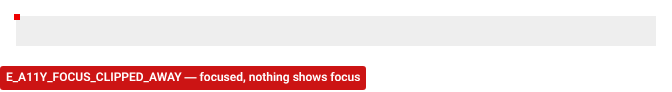
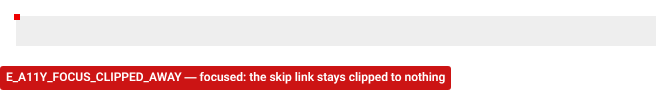
docs: counterexample gallery covers 46 patterns
Ten more cases: hover-only controls, text cut off under the WCAG text spacing,
small text, pointer-events: none over a visible button, a focusable button in
aria-hidden, focus escaping an open modal, padding beyond a fixed size, a row
wider than the page, text spilling into its neighbour, nested scroll areas.
Focus pictures carry a per-case caption.

Claude-Session: https://claude.ai/code/session_01JroQ9fSM85oYnk9PfR2xPa

Changed region(s): [[0.3438, 0.7174, 0.6875, 0.9783]]

diff --git a/docs/counterexamples/README.md b/docs/counterexamples/README.md
@@ -702,6 +702,206 @@ body{padding:0}.page{display:grid;grid-template-columns:minmax(0,1fr);background
 
 </details>
 
+## A control that only hover reveals
+
+`E_A11Y_HOVER_ONLY` — viewport 672 × 690px
+
+> .b appears on :hover but stays hidden when focused, so keyboard users cannot see it
+
+![hover-only](hover-only-violation.png)
+
+<details><summary>HTML / CSS</summary>
+
+```html
+<main class="page"><div class="row"><div class="item"></div><button class="b" aria-label="Delete"></button></div></main>
+```
+
+```css
+.page{display:grid;grid-template-columns:240px;background:#fff}.row{display:grid;grid-template-columns:minmax(0,1fr) 44px;height:44px;background:#eee}.b{appearance:none;display:block;padding:0;border:0;min-width:0;min-height:0;opacity:0;background:#c33}.b:hover{opacity:1}
+```
+
+</details>
+
+## Text cut off at 1.5 line-height (user text spacing)
+
+`E_A11Y_TEXT_SPACING` — viewport 672 × 690px
+
+> .t clips its text with letter-spacing 0.12em and word-spacing 0.16em (needs 197.4375px)
+
+![text-spacing](text-spacing-before.png) ![text-spacing](text-spacing-after.png)
+
+<details><summary>HTML / CSS</summary>
+
+```html
+<main class="page"><p class="t">Order status: shipped</p></main>
+```
+
+```css
+.page{display:grid;grid-template-columns:190px;grid-template-rows:20px;background:#fff;color:#000}.t{font-family:Roboto;font-size:16px;line-height:20px;white-space:nowrap;overflow:hidden;background:#eef}
+```
+
+</details>
+
+## Text below 12px on narrow screens
+
+`W_A11Y_SMALL_TEXT` — viewport 672 × 690px
+
+> .t is set at 10px
+
+![small-text](small-text-violation.png)
+
+<details><summary>HTML / CSS</summary>
+
+```html
+<main class="page"><p class="t">Terms and conditions apply</p></main>
+```
+
+```css
+.page{display:grid;grid-template-columns:minmax(0,1fr);background:#fff;color:#000}.t{font-family:Roboto;font-size:10px;line-height:14px;white-space:nowrap}
+```
+
+</details>
+
+## A visible button under pointer-events: none
+
+`E_A11Y_POINTER_DISABLED` — viewport 672 × 690px
+
+> .go cannot be clicked: pointer-events is none here
+
+![pointer-disabled](pointer-disabled-violation.png)
+
+<details><summary>HTML / CSS</summary>
+
+```html
+<main class="page"><div class="panel"><button class="go" aria-label="Continue"></button></div></main>
+```
+
+```css
+.page{display:grid;grid-template-columns:160px;background:#fff}.panel{display:grid;grid-template-columns:minmax(0,1fr);pointer-events:none}.go{appearance:none;display:block;padding:0;border:0;min-width:0;min-height:0;height:44px;background:#246}
+```
+
+</details>
+
+## A focusable button inside aria-hidden
+
+`E_A11Y_HIDDEN_FOCUSABLE` — viewport 672 × 690px
+
+> .b can take focus inside aria-hidden content
+
+![hidden-focusable](hidden-focusable-violation.png)
+
+<details><summary>HTML / CSS</summary>
+
+```html
+<main class="page"><div class="bar" aria-hidden="true"><button class="b" aria-label="Share"></button></div></main>
+```
+
+```css
+.page{display:grid;grid-template-columns:120px;padding:4px;background:#fff}.bar{display:grid;grid-template-columns:minmax(0,1fr)}.b{appearance:none;display:block;padding:0;border:0;min-width:0;min-height:0;height:44px;background:#246}.b:focus{outline:3px solid #1a73e8}
+```
+
+</details>
+
+## Focus can leave an open modal dialog
+
+`W_A11Y_MODAL_BACKGROUND` — viewport 672 × 690px
+
+> .o can take focus outside the modal .d; make the background inert (or aria-hidden and unfocusable)
+
+![modal-background](modal-background-violation.png)
+
+<details><summary>HTML / CSS</summary>
+
+```html
+<main class="page"><div class="bg"><button class="o" aria-label="Background action"></button></div><div class="d" role="dialog" aria-modal="true" aria-label="Confirm"><button class="i" aria-label="OK"></button></div></main>
+```
+
+```css
+.page{position:relative;display:grid;grid-template-columns:240px;grid-template-rows:44px;background:#fff}.bg{display:grid;grid-template-columns:minmax(0,1fr)}.o{appearance:none;display:block;padding:0;border:0;min-width:0;min-height:0;height:44px;background:#999}.o:focus{outline:3px solid #1a73e8}.d{position:absolute;left:40px;top:60px;width:160px;height:80px;display:grid;grid-template-columns:minmax(0,1fr);padding:18px;background:#fff;box-shadow:0 4px 16px rgba(0,0,0,.3)}.i{appearance:none;display:block;padding:0;border:0;min-width:0;min-height:0;height:44px;background:#246}
+```
+
+</details>
+
+## Padding larger than the fixed size
+
+`E_LAYOUT_BOX_EDGES` — viewport 672 × 690px
+
+> .pill requires 32px but receives 24px on block axis at viewport 672px × 690px
+
+![box-edges](box-edges-violation.png)
+
+<details><summary>HTML / CSS</summary>
+
+```html
+<main class="page"><div class="pill"></div></main>
+```
+
+```css
+.page{display:grid;grid-template-columns:200px}.pill{height:24px;padding:16px 0;background:#9cf}
+```
+
+</details>
+
+## A rigid row wider than the page
+
+`E_LAYOUT_PAGE_OVERFLOW` — viewport 422 × 690px
+
+> .b reaches past the viewport, so the page scrolls horizontally
+
+![page-overflow-x](page-overflow-x-violation.png)
+
+<details><summary>HTML / CSS</summary>
+
+```html
+<main class="page"><div class="row"><div class="a"></div><div class="b"></div></div></main>
+```
+
+```css
+.page{display:grid;grid-template-columns:minmax(0,1fr)}.row{display:flex;column-gap:8px}.a{flex:none;width:300px;height:60px;background:#9cf}.b{flex:none;width:200px;height:60px;background:#fc9}
+```
+
+</details>
+
+## Text that spills into its neighbour
+
+`E_LAYOUT_TEXT_COLLISION` — viewport 429 × 690px
+
+> .t.a and .t.b overlap
+
+![text-collision](text-collision-violation.png)
+
+<details><summary>HTML / CSS</summary>
+
+```html
+<main class="page"><div class="row"><p class="t a">A long product name that overflows</p><p class="t b">19.99 USD</p></div></main>
+```
+
+```css
+.page{display:grid;grid-template-columns:minmax(0,1fr)}.row{display:grid;grid-template-columns:minmax(0,1fr) minmax(0,1fr)}.t{font-family:Roboto;font-size:16px;line-height:24px;white-space:nowrap}.b{background:rgba(255,200,120,.5)}
+```
+
+</details>
+
+## A scroll area inside a scroll area
+
+`W_LAYOUT_NESTED_SCROLL` — viewport 484 × 690px
+
+> .inner scrolls inside .outer
+
+![nested-scroll](nested-scroll-violation.png)
+
+<details><summary>HTML / CSS</summary>
+
+```html
+<main class="page"><div class="outer"><div class="inner"><div class="content"></div></div></div></main>
+```
+
+```css
+.page{display:grid;grid-template-columns:minmax(0,1fr)}.outer{display:grid;grid-template-columns:600px;overflow:auto;height:140px;background:#eee;padding:8px}.inner{display:grid;grid-template-columns:900px;overflow:auto;background:#cde}.content{min-width:0;height:100px;background:repeating-linear-gradient(90deg,#9cf 0 40px,#cde 40px 80px)}
+```
+
+</details>
+
 ## A badge that sticks out of its card
 
 `E_LAYOUT_PROTRUSION` — viewport 672 × 690px
